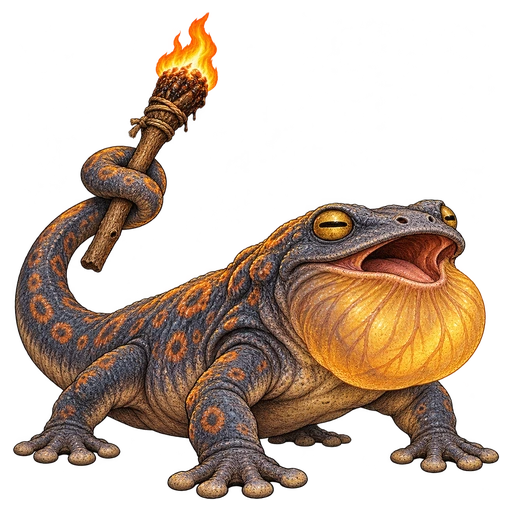
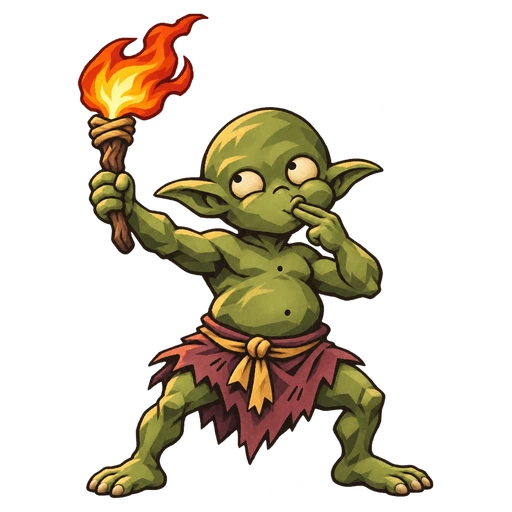
火つけ小僧と大将を既存のゴブリン画風に合わせて描き直す

diff --git a/doc/battle/MONSTER_CATALOG.md b/doc/battle/MONSTER_CATALOG.md
@@ -4118,7 +4118,7 @@ kagaribi_torch_thief_solo：煤ネズミ（松明泥棒）×1。逃走可。
 画像ID：monster_kagaribi_torch_prankster。実ファイル：[assets/images/monsters/torch_prankster.webp](../../assets/images/monsters/torch_prankster.webp)。
 画像共有：他の敵定義との共有なし。
 
-尾の先で松明を抱えた小さな火トカゲ。腹ばいで忍び寄り、よそを向いたまま火先だけをそっと突き出します。
+丸い頭に尖った耳、腰布一枚の緑の小鬼。松明を背中に隠し、白い丸目だけをちらりと動かして、いたずらの相手をうかがいます。
 
 基礎能力：HP 56 / MP 0 / STR 11 / VIT 6 / AGI 13 / INT 6。報酬：12G / 54EXP。
 宝箱：予備灯油 1個 / 12.5％。
@@ -4142,7 +4142,7 @@ kagaribi_prankster_pair：火つけ小僧×1・灯蛾×1。逃走可。
 画像ID：monster_kagaribi_torch_ringleader。実ファイル：[assets/images/monsters/torch_ringleader.webp](../../assets/images/monsters/torch_ringleader.webp)。
 画像共有：他の敵定義との共有なし。
 
-太い尾で松明を持ち上げる、大きな火トカゲ。喉袋を膨らませてひと声鳴くと、灯蛾が火のまわりに集まります。
+火つけ小僧たちの親玉。緑の小鬼が足を踏ん張って松明を高く掲げ、指笛をひと吹きすると、灯蛾がその火に集まります。
 
 基礎能力：HP 124 / MP 0 / STR 18 / VIT 10 / AGI 14 / INT 10。報酬：22G / 115EXP。
 宝箱：予備灯油 1個 / 12.5％。
